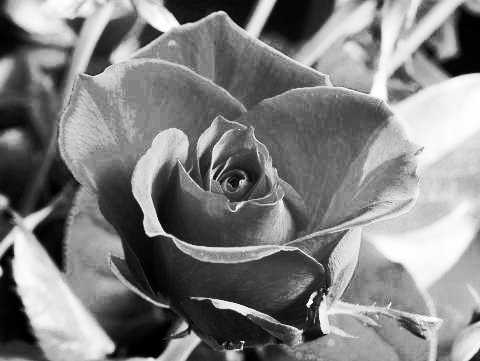
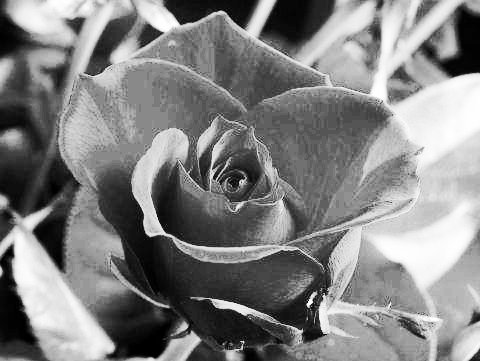
Sample images are changed for Histogram Equalization filter.

Changed region(s): [[0.375, 0.4875, 0.4375, 0.518], [0.625, 0.7008, 0.6562, 0.7313], [0.5625, 0.5485, 0.5938, 0.5789]]

diff --git a/Sources/Imaging/Filters/Color Filters/HistogramEqualization.cs b/Sources/Imaging/Filters/Color Filters/HistogramEqualization.cs
@@ -34,7 +34,7 @@ namespace AForge.Imaging.Filters
     /// </code>
     /// 
     /// <para><b>Source image:</b></para>
-    /// <img src="grayscale.jpg" width="480" height="387" />
+    /// <img src="sample5.jpg" width="480" height="387" />
     /// <para><b>Result image:</b></para>
     /// <img src="equalized.jpg" width="480" height="387" />
     /// </remarks>
